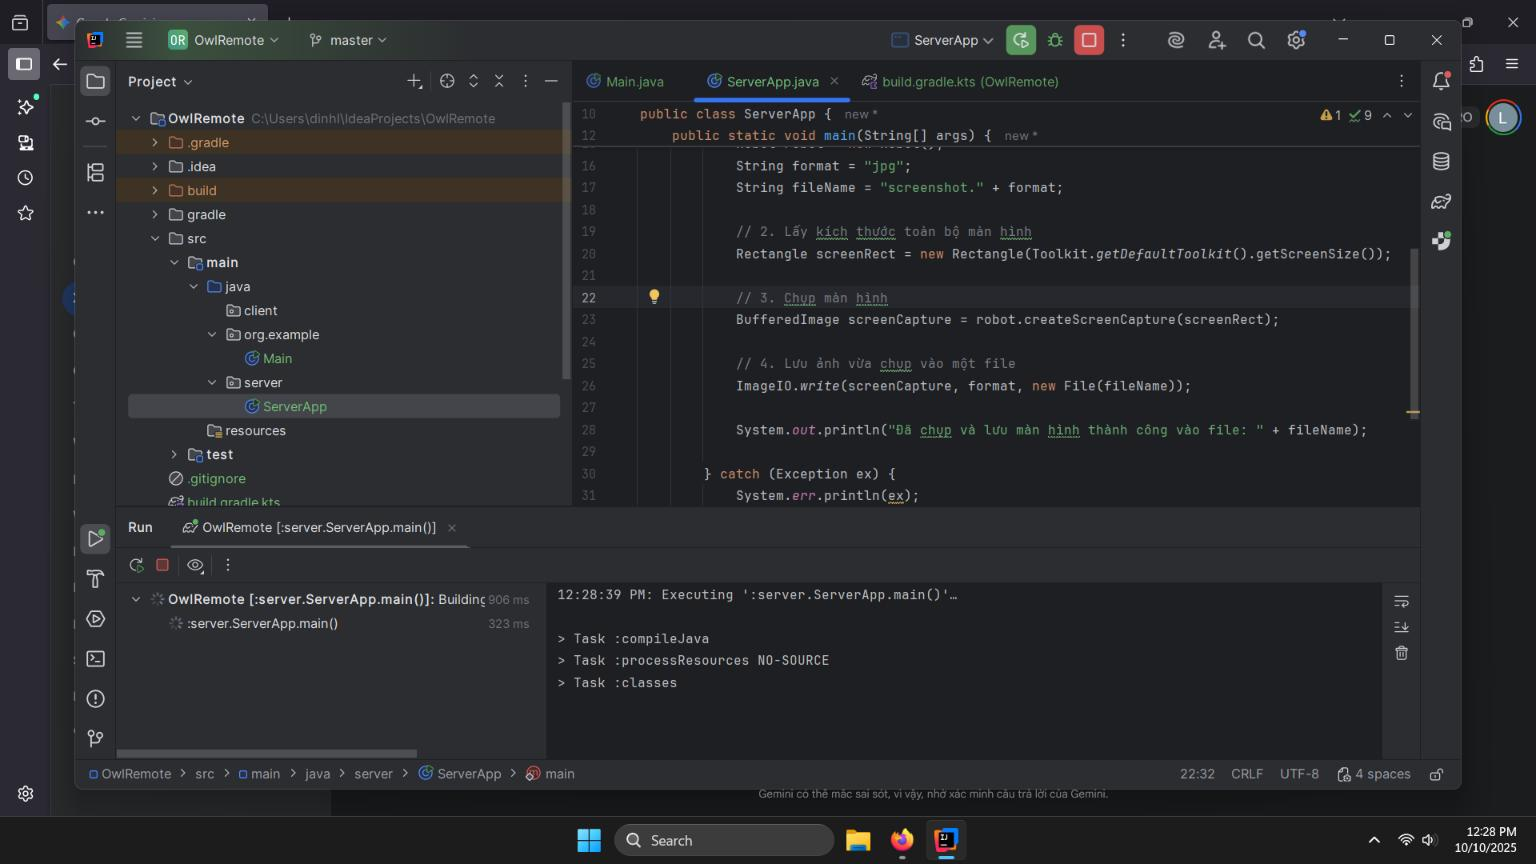
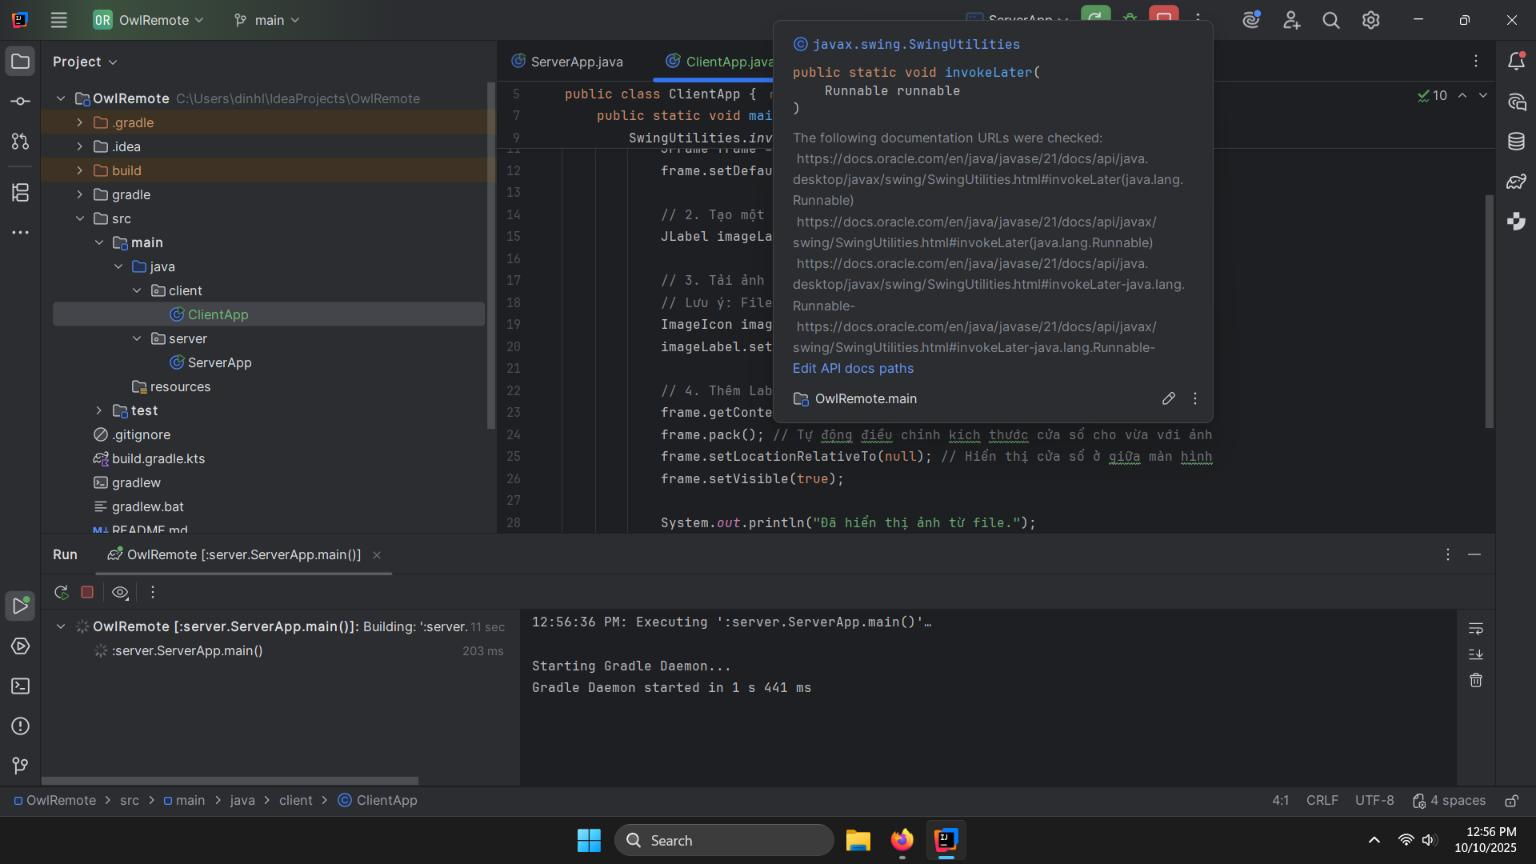
basic remote app

diff --git a/src/main/java/server/ServerApp.java b/src/main/java/server/ServerApp.java
@@ -1,34 +1,95 @@
 package server;
 
+import javax.imageio.ImageIO;
 import java.awt.Rectangle;
 import java.awt.Robot;
 import java.awt.Toolkit;
+import java.awt.event.InputEvent;
 import java.awt.image.BufferedImage;
-import java.io.File;
-import javax.imageio.ImageIO;
+import java.io.BufferedReader;
+import java.io.ByteArrayOutputStream;
+import java.io.DataOutputStream;
+import java.io.InputStreamReader;
+import java.net.ServerSocket;
+import java.net.Socket;
 
 public class ServerApp {
-
     public static void main(String[] args) {
         try {
-            // 1. Khởi tạo Robot để tương tác với màn hình
+            // Mở cổng và chờ kết nối
+            ServerSocket serverSocket = new ServerSocket(12345);
+            System.out.println("Server đang chờ client kết nối tại cổng 12345...");
+            Socket clientSocket = serverSocket.accept();
+            System.out.println("Client đã kết nối!");
+
             Robot robot = new Robot();
-            String format = "jpg";
-            String fileName = "screenshot." + format;
 
-            // 2. Lấy kích thước toàn bộ màn hình
-            Rectangle screenRect = new Rectangle(Toolkit.getDefaultToolkit().getScreenSize());
+            // --- Luồng 1: Gửi màn hình liên tục ---
+            new Thread(() -> {
+                try {
+                    DataOutputStream dos = new DataOutputStream(clientSocket.getOutputStream());
+                    Rectangle screenRect = new Rectangle(Toolkit.getDefaultToolkit().getScreenSize());
 
-            // 3. Chụp màn hình
-            BufferedImage screenCapture = robot.createScreenCapture(screenRect);
+                    while (clientSocket.isConnected()) {
+                        BufferedImage screenshot = robot.createScreenCapture(screenRect);
+                        ByteArrayOutputStream baos = new ByteArrayOutputStream();
+                        ImageIO.write(screenshot, "jpeg", baos);
+                        byte[] imageBytes = baos.toByteArray();
 
-            // 4. Lưu ảnh vừa chụp vào một file
-            ImageIO.write(screenCapture, format, new File(fileName));
+                        dos.writeInt(imageBytes.length);
+                        dos.write(imageBytes);
+                        dos.flush();
 
-            System.out.println("Đã chụp và lưu màn hình thành công vào file: " + fileName);
+                        Thread.sleep(16); // Khoảng 60 FPS
+                    }
+                } catch (Exception e) {
+                    System.out.println("Lỗi luồng gửi màn hình hoặc client đã ngắt kết nối.");
+                }
+            }).start();
 
-        } catch (Exception ex) {
-            System.err.println(ex);
+            // --- Luồng 2 (Luồng chính): Nhận và xử lý lệnh điều khiển ---
+            BufferedReader commandReader = new BufferedReader(new InputStreamReader(clientSocket.getInputStream()));
+            String command;
+            while ((command = commandReader.readLine()) != null) {
+                String[] parts = command.split(",");
+                String action = parts[0];
+
+                try {
+                    switch (action) {
+                        case "MOUSE_MOVE":
+                            int x = Integer.parseInt(parts[1]);
+                            int y = Integer.parseInt(parts[2]);
+                            robot.mouseMove(x, y);
+                            break;
+                        case "MOUSE_PRESS":
+                            int buttonPress = Integer.parseInt(parts[3]);
+                            robot.mousePress(InputEvent.getMaskForButton(buttonPress));
+                            break;
+                        case "MOUSE_RELEASE":
+                            int buttonRelease = Integer.parseInt(parts[3]);
+                            robot.mouseRelease(InputEvent.getMaskForButton(buttonRelease));
+                            break;
+                        case "MOUSE_WHEEL":
+                            int rotation = Integer.parseInt(parts[1]);
+                            robot.mouseWheel(rotation);
+                            break;
+                        case "KEY_PRESS":
+                            int keyPressCode = Integer.parseInt(parts[1]);
+                            robot.keyPress(keyPressCode);
+                            break;
+                        case "KEY_RELEASE":
+                            int keyReleaseCode = Integer.parseInt(parts[1]);
+                            robot.keyRelease(keyReleaseCode);
+                            break;
+                    }
+                } catch (Exception e) {
+                    System.err.println("Lỗi khi thực thi lệnh: " + command);
+                    e.printStackTrace();
+                }
+            }
+        } catch (Exception e) {
+            System.out.println("Lỗi server hoặc client đã ngắt kết nối.");
+            e.printStackTrace();
         }
     }
 }

diff --git a/src/main/java/client/ScreenPanel.java b/src/main/java/client/ScreenPanel.java
@@ -1,0 +1,124 @@
+package client;
+
+import javax.swing.JPanel;
+import java.awt.Graphics;
+import java.awt.Graphics2D;
+import java.awt.RenderingHints;
+import java.awt.event.*;
+import java.awt.image.BufferedImage;
+import java.io.PrintWriter;
+
+public class ScreenPanel extends JPanel {
+
+    private BufferedImage currentScreen;
+    private final PrintWriter commandSender;
+
+    public ScreenPanel(PrintWriter commandSender) {
+        this.commandSender = commandSender;
+        setupListeners();
+    }
+
+    private void setupListeners() {
+        // Yêu cầu focus để nhận sự kiện từ bàn phím
+        setFocusable(true);
+        requestFocusInWindow();
+
+        // --- Bắt sự kiện chuột ---
+        addMouseMotionListener(new MouseMotionAdapter() {
+            @Override
+            public void mouseMoved(MouseEvent e) {
+                sendMouseEvent("MOUSE_MOVE", e);
+            }
+            @Override
+            public void mouseDragged(MouseEvent e) {
+                // Kéo chuột cũng là di chuyển
+                sendMouseEvent("MOUSE_MOVE", e);
+            }
+        });
+
+        addMouseListener(new MouseAdapter() {
+            @Override
+            public void mousePressed(MouseEvent e) {
+                sendMouseEvent("MOUSE_PRESS", e);
+            }
+            @Override
+            public void mouseReleased(MouseEvent e) {
+                sendMouseEvent("MOUSE_RELEASE", e);
+            }
+        });
+
+        addMouseWheelListener(this::mouseWheelMoved);
+
+        // --- Bắt sự kiện bàn phím ---
+        addKeyListener(new KeyAdapter() {
+            @Override
+            public void keyPressed(KeyEvent e) {
+                sendKeyEvent("KEY_PRESS", e);
+            }
+            @Override
+            public void keyReleased(KeyEvent e) {
+                sendKeyEvent("KEY_RELEASE", e);
+            }
+        });
+    }
+
+    private void sendMouseEvent(String command, MouseEvent e) {
+        if (currentScreen == null || commandSender == null) return;
+
+        // Tính toán tọa độ thực trên màn hình server dựa trên tỉ lệ
+        double scaleX = (double) currentScreen.getWidth() / getWidth();
+        double scaleY = (double) currentScreen.getHeight() / getHeight();
+        int serverX = (int) (e.getX() * scaleX);
+        int serverY = (int) (e.getY() * scaleY);
+        int button = e.getButton(); // 1=trái, 2=giữa, 3=phải
+
+        commandSender.println(String.format("%s,%d,%d,%d", command, serverX, serverY, button));
+    }
+
+    private void mouseWheelMoved(MouseWheelEvent e) {
+        if (commandSender == null) return;
+        int rotation = e.getWheelRotation(); // -1 là cuộn lên, 1 là cuộn xuống
+        commandSender.println(String.format("MOUSE_WHEEL,%d", rotation));
+    }
+
+
+    private void sendKeyEvent(String command, KeyEvent e) {
+        if (commandSender == null) return;
+        int keyCode = e.getKeyCode();
+        commandSender.println(String.format("%s,%d", command, keyCode));
+    }
+
+    public void updateScreen(BufferedImage image) {
+        this.currentScreen = image;
+        repaint();
+    }
+
+    @Override
+    protected void paintComponent(Graphics g) {
+        super.paintComponent(g);
+        if (currentScreen != null) {
+            Graphics2D g2d = (Graphics2D) g.create();
+            g2d.setRenderingHint(RenderingHints.KEY_INTERPOLATION, RenderingHints.VALUE_INTERPOLATION_BILINEAR);
+
+            int panelWidth = getWidth();
+            int panelHeight = getHeight();
+            double imgAspectRatio = (double) currentScreen.getWidth() / currentScreen.getHeight();
+            double panelAspectRatio = (double) panelWidth / panelHeight;
+
+            int newWidth, newHeight;
+            if (panelAspectRatio > imgAspectRatio) {
+                newHeight = panelHeight;
+                newWidth = (int) (panelHeight * imgAspectRatio);
+            } else {
+                newWidth = panelWidth;
+                newHeight = (int) (panelWidth / imgAspectRatio);
+            }
+
+            int x = (panelWidth - newWidth) / 2;
+            int y = (panelHeight - newHeight) / 2;
+
+            g2d.drawImage(currentScreen, x, y, newWidth, newHeight, null);
+            g2d.dispose();
+        }
+    }
+}

diff --git a/src/main/java/client/ClientApp.java b/src/main/java/client/ClientApp.java
@@ -1,0 +1,64 @@
+package client;
+
+import javax.imageio.ImageIO;
+import javax.swing.*;
+import java.awt.image.BufferedImage;
+import java.io.ByteArrayInputStream;
+import java.io.DataInputStream;
+import java.io.PrintWriter;
+import java.net.Socket;
+
+public class ClientApp {
+
+    private static JFrame frame;
+    private static ScreenPanel screenPanel;
+    private static PrintWriter commandSender;
+
+    public static void main(String[] args) {
+        String serverIp = "127.0.0.1"; // Thay đổi IP này nếu Server ở máy khác
+        int serverPort = 12345;
+
+        try {
+            // Kết nối mạng trước khi tạo UI
+            Socket socket = new Socket(serverIp, serverPort);
+            System.out.println("Đã kết nối tới server.");
+
+            // Luồng gửi lệnh (PrintWriter)
+            commandSender = new PrintWriter(socket.getOutputStream(), true); // true = autoFlush
+
+            // Tạo UI trên Event Dispatch Thread (EDT)
+            SwingUtilities.invokeLater(() -> {
+                frame = new JFrame("Remote Desktop Viewer");
+
+                // Khởi tạo ScreenPanel và truyền PrintWriter vào
+                screenPanel = new ScreenPanel(commandSender);
+                frame.add(screenPanel);
+
+                frame.setSize(1280, 720);
+                frame.setDefaultCloseOperation(JFrame.EXIT_ON_CLOSE);
+                frame.setVisible(true);
+                screenPanel.requestFocusInWindow();
+            });
+
+            // Luồng nhận hình ảnh (chạy trên luồng riêng)
+            DataInputStream dis = new DataInputStream(socket.getInputStream());
+            while (socket.isConnected()) {
+                int size = dis.readInt();
+                byte[] imageBytes = new byte[size];
+                dis.readFully(imageBytes);
+
+                BufferedImage image = ImageIO.read(new ByteArrayInputStream(imageBytes));
+
+                if (image != null && screenPanel != null) {
+                    // Cập nhật UI một cách an toàn
+                    SwingUtilities.invokeLater(() -> screenPanel.updateScreen(image));
+                }
+            }
+
+        } catch (Exception e) {
+            System.out.println("Lỗi client hoặc mất kết nối server.");
+            e.printStackTrace();
+            JOptionPane.showMessageDialog(null, "Không thể kết nối đến server.", "Lỗi Kết Nối", JOptionPane.ERROR_MESSAGE);
+        }
+    }
+}
